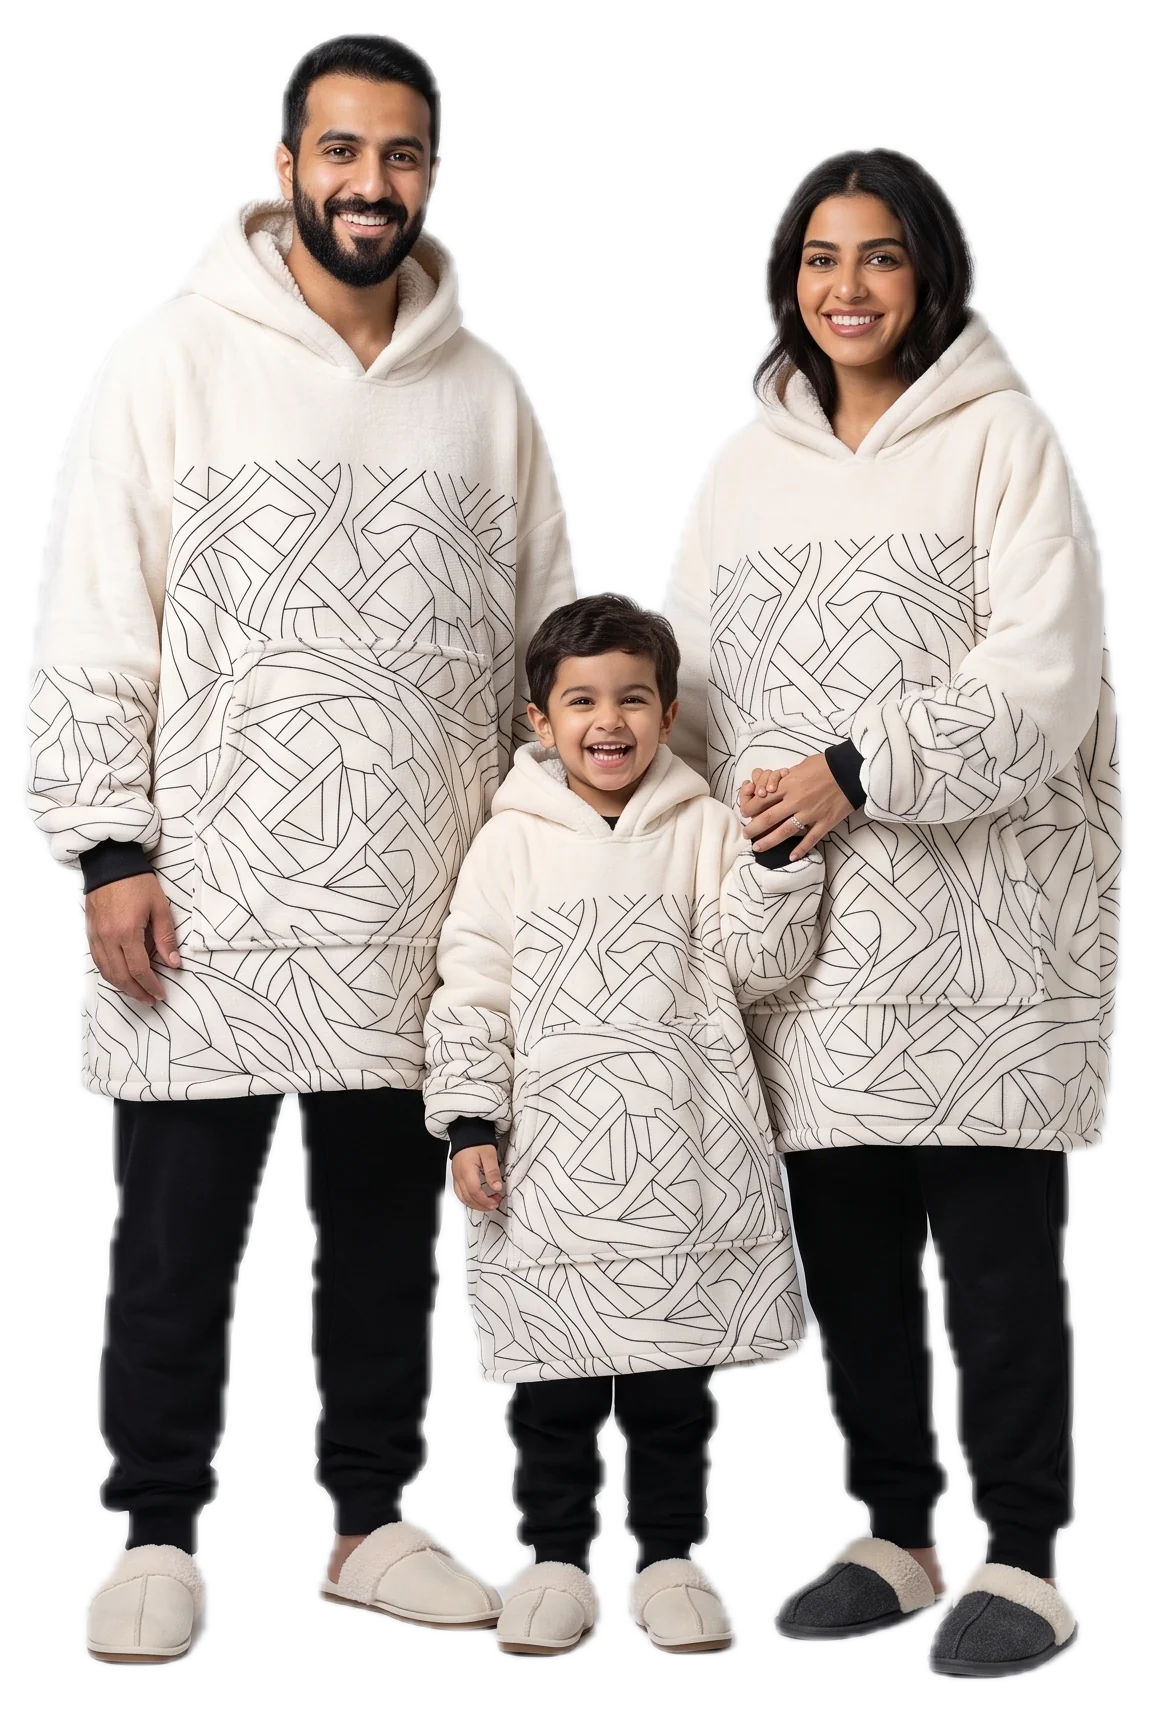
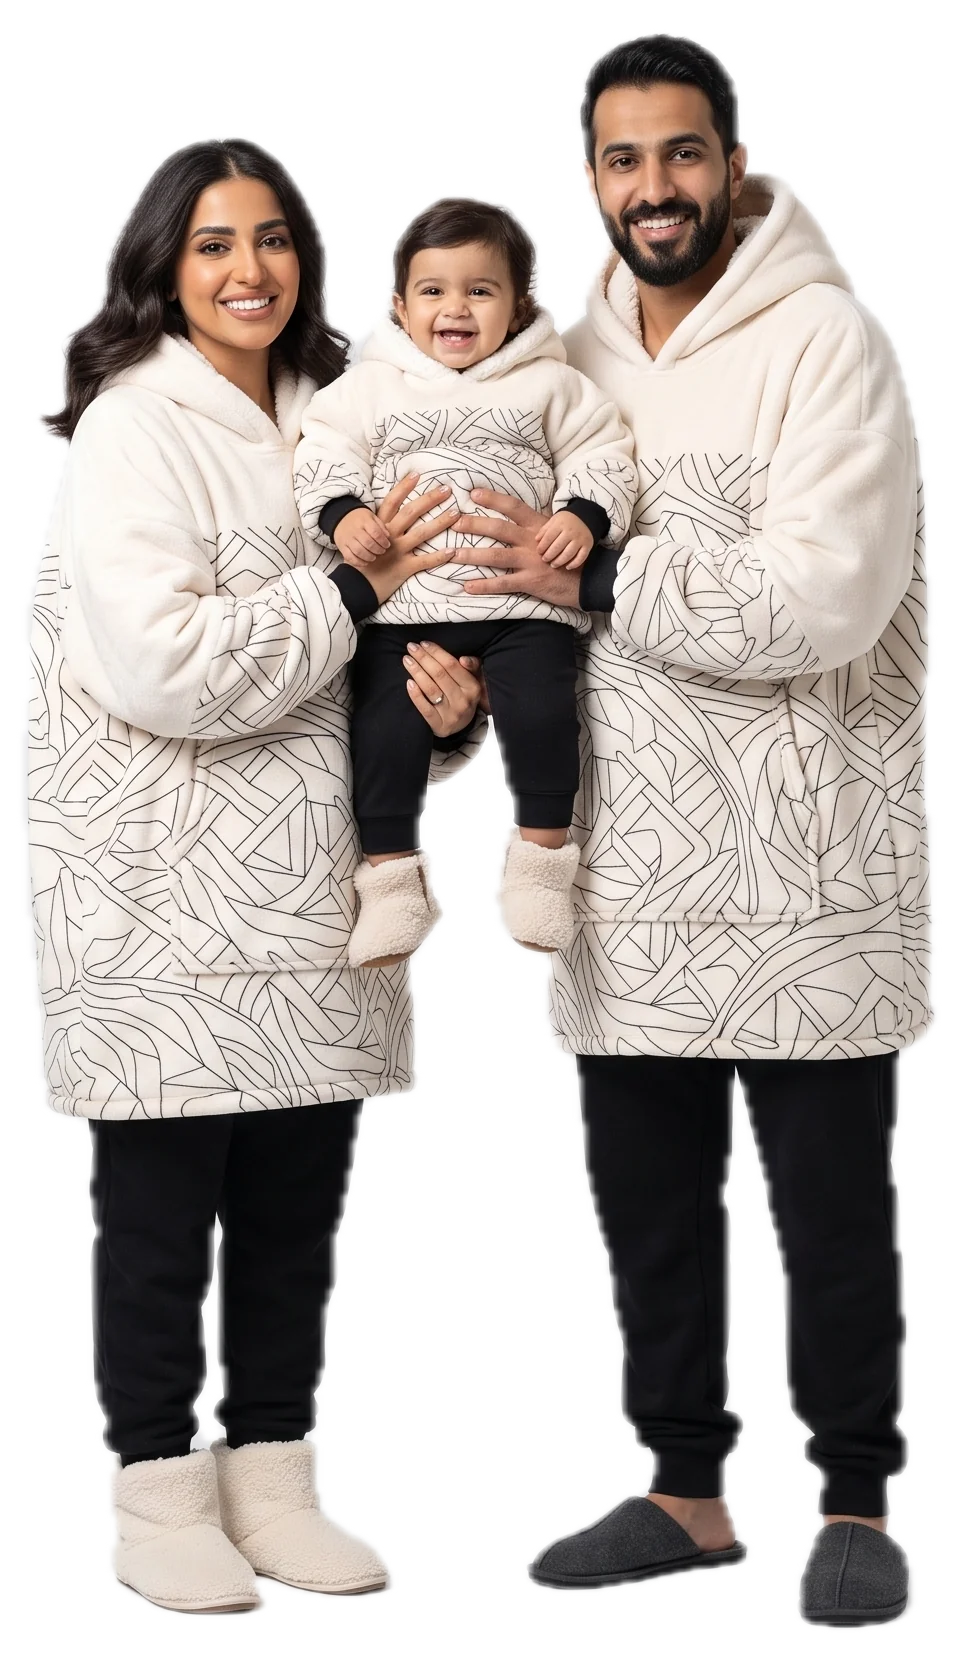
Faris Al-Dafa sisters trio + face-aligned Laith Al-Shita; per-edition light backdrop wash
- nassr: two sisters holding a toddler, all faces on one line, at camera
- shabab: parents lifting the toddler to face height, at camera
- Soft per-team light wash behind the hero family (sky blue for najd,
  warm gold for hijaz/nassr, mint for watan) dissolving into the dark

diff --git a/js/data.js b/js/data.js
@@ -70,7 +70,8 @@ const EDITIONS = [
     img: "img/najd.jpg",
     fam: "img/fam-najd.jpg",
     cut: "img/cut/fam-najd.webp",
-    scale: "img/scale-najd.jpg", // hero cutout — people only, transparent bg // family gallery shot — section hides for editions without one
+    scale: "img/scale-najd.jpg",
+    sky: "#8FC9FF", // light backdrop wash behind the hero family // hero cutout — people only, transparent bg // family gallery shot — section hides for editions without one
     ink: "#0B4EA2",   // text-safe dark variant — NEVER use primary for text on white
     ar: "زعيم الدفا",
     en: "Za'eem Al-Dafa",
@@ -85,7 +86,8 @@ const EDITIONS = [
     id: "hijaz",
     fam: "img/fam-hijaz.jpg",
     cut: "img/cut/fam-hijaz.webp",
-    scale: "img/scale-hijaz.jpg", // hero cutout — people only, transparent bg
+    scale: "img/scale-hijaz.jpg",
+    sky: "#FFD98A", // light backdrop wash behind the hero family // hero cutout — people only, transparent bg
     fg: "#14161A",
     img: "img/hijaz.jpg",
     ink: "#7A5C00",   // text-safe dark variant — NEVER use primary for text on white
@@ -102,7 +104,8 @@ const EDITIONS = [
     id: "watan",
     fam: "img/fam-watan.jpg",
     cut: "img/cut/fam-watan.webp",
-    scale: "img/scale-watan.jpg", // hero cutout — people only, transparent bg
+    scale: "img/scale-watan.jpg",
+    sky: "#9ADFB8", // light backdrop wash behind the hero family // hero cutout — people only, transparent bg
     img: "img/watan.jpg",
     ink: "#046A38",   // text-safe dark variant — NEVER use primary for text on white
     ar: "راقي الدفا",
@@ -118,7 +121,8 @@ const EDITIONS = [
     id: "nassr",
     fam: "img/fam-nassr.jpg",
     cut: "img/cut/fam-nassr.webp",
-    scale: "img/scale-nassr.jpg", // hero cutout — people only, transparent bg
+    scale: "img/scale-nassr.jpg",
+    sky: "#FFE08A", // light backdrop wash behind the hero family // hero cutout — people only, transparent bg
     fg: "#14161A",
     img: "img/nassr.jpg",
     ink: "#1C3F94",
@@ -135,7 +139,8 @@ const EDITIONS = [
     id: "shabab",
     fam: "img/fam-shabab.jpg",
     cut: "img/cut/fam-shabab.webp",
-    scale: "img/scale-shabab.jpg", // hero cutout — people only, transparent bg
+    scale: "img/scale-shabab.jpg",
+    sky: "#E8DCC8", // light backdrop wash behind the hero family // hero cutout — people only, transparent bg
     fg: "#14161A",
     img: "img/shabab.jpg",
     ink: "#1A1A1A",

diff --git a/css/styles.css b/css/styles.css
@@ -231,6 +231,8 @@ html[dir="rtl"] .nav{ direction:rtl; }
   position:relative; width:100%; overflow:hidden;
   height:clamp(380px,68vh,720px);
   margin-block-start:0;
+  background:radial-gradient(ellipse 74% 64% at 50% 36%,color-mix(in srgb,var(--ed-sky,transparent) 46%,transparent) 0%,transparent 74%);
+  transition:background .65s var(--ease);
   display:flex; justify-content:center; align-items:flex-end;
   -webkit-mask-image:linear-gradient(#000 66%,transparent 97%);
   mask-image:linear-gradient(#000 66%,transparent 97%);

diff --git a/js/app.js b/js/app.js
@@ -54,6 +54,7 @@
     r.setProperty("--ed-acc", e.accent);
     r.setProperty("--ed-glow", e.glow);
     r.setProperty("--ed-fg", e.fg || "#fff");
+    r.setProperty("--ed-sky", e.sky || "transparent");
     document.documentElement.dataset.edition = e.id;
 
     const nameEl = $("#edName");
